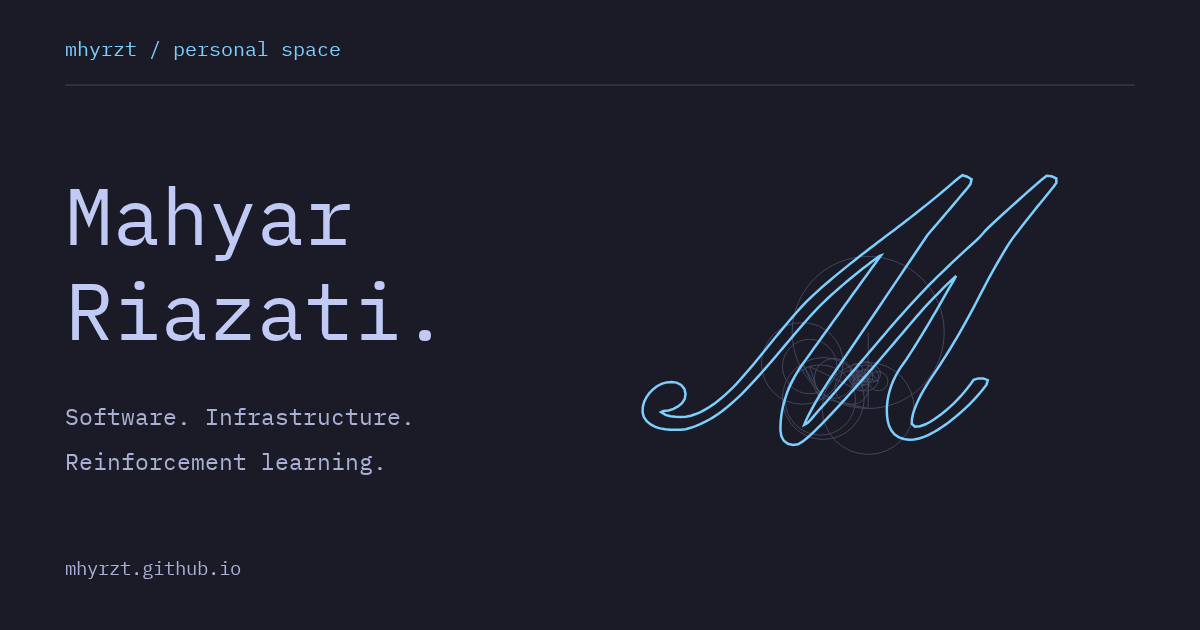
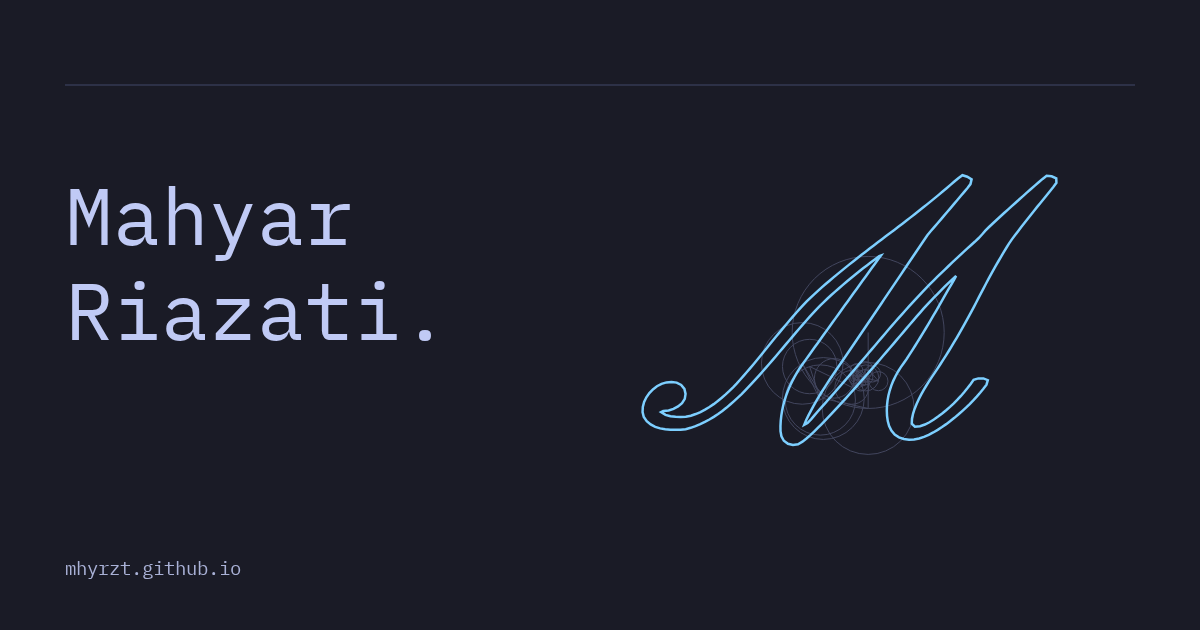
refactor: unify CV and simplify link preview

diff --git a/website/index.html b/website/index.html
@@ -4,8 +4,8 @@
     <meta charset="UTF-8">
     <meta name="viewport" content="width=device-width, initial-scale=1">
     <meta name="theme-color" content="#1a1b26">
-    <title>Mahyar Riazati · Software & research</title>
-    <meta name="description" content="Software engineering, infrastructure, and reinforcement-learning research. Selected work and notes from Mahyar Riazati.">
+    <title>Mahyar Riazati</title>
+    <meta name="description" content="Projects, research, and things I’m curious about.">
     <meta name="author" content="Mahyar Riazati">
     <link rel="canonical" href="https://mhyrzt.github.io/">
     <link rel="alternate" type="text/markdown" href="https://mhyrzt.github.io/index.md">
@@ -13,19 +13,19 @@
     <meta property="og:type" content="website">
     <meta property="og:site_name" content="Mahyar Riazati">
     <meta property="og:locale" content="en_US">
-    <meta property="og:title" content="Mahyar Riazati · Software & research">
-    <meta property="og:description" content="Software, infrastructure, and reinforcement learning. A personal workbench.">
+    <meta property="og:title" content="Mahyar Riazati">
+    <meta property="og:description" content="Projects, research, and things I’m curious about.">
     <meta property="og:url" content="https://mhyrzt.github.io/">
     <meta property="og:image" content="https://mhyrzt.github.io/social.png">
     <meta property="og:image:type" content="image/png">
     <meta property="og:image:width" content="1200">
     <meta property="og:image:height" content="630">
-    <meta property="og:image:alt" content="Mahyar Riazati. Software, infrastructure, reinforcement learning. A calligraphic M drawn with Fourier circles.">
+    <meta property="og:image:alt" content="Mahyar Riazati. A calligraphic M drawn with Fourier circles.">
     <meta name="twitter:card" content="summary_large_image">
-    <meta name="twitter:title" content="Mahyar Riazati · Software & research">
-    <meta name="twitter:description" content="Software, infrastructure, and reinforcement learning. A personal workbench.">
+    <meta name="twitter:title" content="Mahyar Riazati">
+    <meta name="twitter:description" content="Projects, research, and things I’m curious about.">
     <meta name="twitter:image" content="https://mhyrzt.github.io/social.png">
-    <meta name="twitter:image:alt" content="Mahyar Riazati. Software, infrastructure, reinforcement learning. A calligraphic M drawn with Fourier circles.">
+    <meta name="twitter:image:alt" content="Mahyar Riazati. A calligraphic M drawn with Fourier circles.">
     <link rel="icon" type="image/svg+xml" href="/favicon.svg">
     <link rel="stylesheet" href="/src/styles.css">
     <script>try{const t=localStorage.getItem('theme');if(t==='light'||t==='dark')document.documentElement.dataset.webtuiTheme=t}catch{}</script>

diff --git a/website/tests/site.spec.ts b/website/tests/site.spec.ts
@@ -78,8 +78,7 @@ test('works without JavaScript and offers keyboard navigation', async ({browser,
   await expect(staticPage.locator('.fourier button, .fourier select, .fourier summary')).toHaveCount(0);
   await staticPage.locator('.project summary').first().click();
   await expect(staticPage.getByText(/I develop the Rust CLI/)).toBeVisible();
-  await expect(staticPage.getByRole('link',{name:'↓ Research CV'})).toBeVisible();
-  await expect(staticPage.getByRole('link',{name:'↓ Full CV'})).toBeVisible();
+  await expect(staticPage.getByRole('link',{name:'↓ Download CV'})).toBeVisible();
   await staticPage.close(); await context.close();
   await page.goto('/');
   await page.keyboard.press('Tab');
@@ -117,18 +116,12 @@ test('SEO and static endpoints refer to the current domain', async ({request}) =
 });
 
 
-test('Tell me CV chooser links to each released profile',async ({page})=>{
+test('offers one direct CV download', async ({page}) => {
   await page.goto('/');
-  const chooser = page.getByLabel('Tell me…');
-  for(const [profile,filename,label] of [
-    ['engineering','mahyar-riazati-cv.pdf','Engineering CV'],
-    ['research','mahyar-riazati-research-cv.pdf','Research CV'],
-    ['full','mahyar-riazati-master-cv.pdf','Full CV'],
-  ]) {
-    await chooser.selectOption(profile!);
-    await expect(page.locator('#cv-download')).toHaveAttribute('href',`https://github.com/mhyrzt/mhyrzt.github.io/releases/latest/download/${filename}`);
-    await expect(page.locator('#cv-download')).toHaveText(`↓ ${label}`);
-  }
+  const download = page.getByRole('link', {name:'↓ Download CV'});
+  await expect(download).toHaveCount(1);
+  await expect(download).toHaveAttribute('href', 'https://github.com/mhyrzt/mhyrzt.github.io/releases/latest/download/mahyar-riazati-cv.pdf');
+  await expect(page.locator('#cv-profile')).toHaveCount(0);
 });
 
 test('scroll motion respects reduced motion and keeps content readable', async ({page}) => {

diff --git a/website/scripts/generate-social.ts b/website/scripts/generate-social.ts
@@ -17,7 +17,7 @@ for (const contour of glyph.contours) {
 const browser = await chromium.launch();
 try {
   const page = await browser.newPage({viewport:{width:1200,height:630},deviceScaleFactor:1});
-  await page.setContent(`<style>@font-face{font-family:Plex;src:url(data:font/woff2;base64,${font})}body{margin:0}</style><svg xmlns="http://www.w3.org/2000/svg" width="1200" height="630" style="font-family:Plex,monospace"><rect width="1200" height="630" fill="#1a1b26"/><path d="M65 85H1135" stroke="#414868"/><g fill="#7dcfff" font-size="20"><text x="65" y="56">mhyrzt / personal space</text></g><g fill="#c0caf5" font-size="80"><text x="65" y="245">Mahyar</text><text x="65" y="340">Riazati.</text></g><g fill="#a9b1d6" font-size="23"><text x="65" y="425">Software. Infrastructure.</text><text x="65" y="470">Reinforcement learning.</text></g><text x="65" y="575" fill="#a9b1d6" font-size="19">mhyrzt.github.io</text><g fill="none" stroke="#737aa2" stroke-width="1" opacity=".45">${construction}</g><path d="${outline}" fill="none" stroke="#7dcfff" stroke-width="2.5"/></svg>`);
+  await page.setContent(`<style>@font-face{font-family:Plex;src:url(data:font/woff2;base64,${font})}body{margin:0}</style><svg xmlns="http://www.w3.org/2000/svg" width="1200" height="630" style="font-family:Plex,monospace"><rect width="1200" height="630" fill="#1a1b26"/><path d="M65 85H1135" stroke="#414868"/><g fill="#c0caf5" font-size="80"><text x="65" y="245">Mahyar</text><text x="65" y="340">Riazati.</text></g><text x="65" y="575" fill="#a9b1d6" font-size="19">mhyrzt.github.io</text><g fill="none" stroke="#737aa2" stroke-width="1" opacity=".45">${construction}</g><path d="${outline}" fill="none" stroke="#7dcfff" stroke-width="2.5"/></svg>`);
   await page.evaluate(()=>document.fonts.ready);
   await page.screenshot({path:new URL('../public/social.png',import.meta.url).pathname});
 } finally { await browser.close(); }

diff --git a/website/src/components/page.ts b/website/src/components/page.ts
@@ -1,4 +1,4 @@
-import { identity, projects, publications, elsewhere, cvProfiles, cvDownload } from '../content.ts';
+import { identity, projects, publications, elsewhere } from '../content.ts';
 import glyph from '../fourier/glyph.json' with { type: 'json' };
 
 const esc = (s: string) => s.replaceAll('&','&amp;').replaceAll('<','&lt;').replaceAll('"','&quot;');
@@ -20,7 +20,7 @@ export function renderPage(): string {
         <div class="panel-title">${badge('index')}${badge('~/mhyrzt')}</div>
         <div class="index-body"><p class="index-name">Mahyar Riazati</p><p class="muted">Software engineer<br>RL research</p><div is-="separator" aria-hidden="true"></div>
         <nav aria-label="Section index"><ul marker-="tree"><li><a href="#main">Introduction</a></li><li><a href="#work">Selected work</a></li><li><a href="#research">Research</a></li><li><a href="#experience">Experience</a></li><li><a href="#about">Beyond the code</a></li><li><a href="#elsewhere">Elsewhere</a></li></ul></nav>
-        <div is-="separator" aria-hidden="true"></div><div class="cv-picker" hidden><label for="cv-profile">Tell me…</label><select id="cv-profile">${cvProfiles.map(p=>`<option value="${p.id}">${p.prompt}</option>`).join('')}</select></div><a id="cv-download" class="cv-index" href="${identity.cv}">↓ Engineering CV</a><noscript>${cvProfiles.slice(1).map(p=>`<a class="cv-index" href="${cvDownload(p.filename)}">↓ ${p.label}</a>`).join('')}</noscript><p class="index-location">Tehran, Iran</p></div>
+        <div is-="separator" aria-hidden="true"></div><a id="cv-download" class="cv-index" href="${identity.cv}">↓ Download CV</a><p class="index-location">Tehran, Iran</p></div>
       </aside>
       <main id="main">
         <div class="hero">

diff --git a/website/src/components/machine-readable.ts b/website/src/components/machine-readable.ts
@@ -1,4 +1,4 @@
-import { identity, projects, publications, elsewhere, cvProfiles, cvDownload } from '../content.ts';
+import { identity, projects, publications, elsewhere } from '../content.ts';
 
 export function machineReadableFiles(): Record<string, string> {
   const overview = `# ${identity.name}
@@ -26,7 +26,7 @@ ${publications.map(p => `- [${p.title}](${p.url}): ${p.authors}. ${p.venue}.`).j
 
 ## CV
 
-${cvProfiles.map(p => `- [${p.label}](${cvDownload(p.filename)})`).join('\n')}
+- [CV](${identity.cv})
 
 ## Elsewhere
 
@@ -36,15 +36,15 @@ ${elsewhere.map(p => `- [${p.name}](${p.url}): ${p.detail}`).join('\n')}
 
 > ${identity.description}
 
-This is a personal website, not a company website. The CVs contain the full formal record.
+This is a personal website, not a company website. The CV contains the full formal record.
 
 ## Overview
 
 - [Profile, projects, and publications](${identity.url}/index.md): Concise Markdown overview generated from the website's shared content.
 
-## CVs
+## CV
 
-${cvProfiles.map(p => `- [${p.label}](${cvDownload(p.filename)}): PDF from the latest tagged CV release.`).join('\n')}
+- [CV](${identity.cv}): PDF from the latest tagged CV release.
 
 ## Optional
 

diff --git a/website/src/content.ts b/website/src/content.ts
@@ -1,16 +1,9 @@
 export const identity = {
   name: 'Mahyar Riazati',
   url: 'https://mhyrzt.github.io',
-  description: 'Software engineering, infrastructure, and reinforcement-learning research. Selected work and notes from Mahyar Riazati.',
+  description: 'Projects, research, and things I’m curious about.',
   cv: 'https://github.com/mhyrzt/mhyrzt.github.io/releases/latest/download/mahyar-riazati-cv.pdf',
 };
-
-export const cvProfiles = [
-  { id: 'engineering', prompt: 'what you build', label: 'Engineering CV', filename: 'mahyar-riazati-cv.pdf' },
-  { id: 'research', prompt: 'what you research', label: 'Research CV', filename: 'mahyar-riazati-research-cv.pdf' },
-  { id: 'full', prompt: 'the whole story', label: 'Full CV', filename: 'mahyar-riazati-master-cv.pdf' },
-] as const;
-export const cvDownload = (filename: string) => `https://github.com/mhyrzt/mhyrzt.github.io/releases/latest/download/${filename}`;
 
 export const projects = [
   {

diff --git a/website/src/main.ts b/website/src/main.ts
@@ -1,21 +1,8 @@
 import { mountFourier } from './fourier/renderer';
-import { cvProfiles, cvDownload } from './content';
 import { mountScrollMotion } from './scroll';
 
 const disposeScroll = mountScrollMotion();
 if (import.meta.hot) import.meta.hot.dispose(disposeScroll);
-
-const cvSelect = document.querySelector<HTMLSelectElement>('#cv-profile');
-const cvLink = document.querySelector<HTMLAnchorElement>('#cv-download');
-if (cvSelect && cvLink) {
-  cvSelect.closest<HTMLElement>('.cv-picker')!.hidden = false;
-  cvSelect.addEventListener('change', () => {
-    const profile = cvProfiles.find(p => p.id === cvSelect.value);
-    if (!profile) return;
-    cvLink.href = cvDownload(profile.filename);
-    cvLink.textContent = `↓ ${profile.label}`;
-  });
-}
 
 const theme = document.querySelector<HTMLButtonElement>('#theme');
 function updateThemeButton() {

diff --git a/website/src/styles.css b/website/src/styles.css
@@ -113,8 +113,6 @@
   .index-panel li { white-space: nowrap; }
   .index-location { margin-top: 2lh; font-size: 12px; }
   .cv-index { display: block; white-space: nowrap; }
-  .cv-picker { display: flex; flex-direction: column; gap: .5lh; margin-bottom: .5lh; width: 100%; }
-  .cv-picker select { max-width: 100%; width: 100%; padding: .25lh .5ch; }
   .sr-only { position: absolute; width: 1px; height: 1px; padding: 0; margin: -1px; overflow: hidden; clip-path: inset(50%); white-space: nowrap; border: 0; }
   [is-='separator'] { display: block; width: 100%; margin: .5lh 0; }
   main { min-width: 0; }

diff --git a/CV/sections/projects.tex b/CV/sections/projects.tex
@@ -1,94 +1,16 @@
-\ifmastercv
-  \Needspace{12\baselineskip}
-  \section{Projects}
-\else
-  \section{Selected Projects}
-\fi
+\section{Selected Projects}
 \begin{projectentry}{OGym --- Rust reinforcement-learning environments}{https://github.com/mhyrzt/ogym}
-Developed typed environment, action, and observation abstractions with batch execution across native Rust, Rapier, and MuJoCo backends.
-\ifmastercv\else Maintained reproducible benchmarks against Gymnasium environments.\fi
-\ifmastercv
-\begin{itemize}
-  \item Implemented classic-control and toy-text environments behind a shared interface, with optional physics backends and native dependencies.
-  \item Maintained a benchmark suite against equivalent Gymnasium environments, with published methodology and raw measurements.
-\end{itemize}
-\fi
-
+Developed typed environment, action, and observation abstractions with batch execution across native Rust, Rapier, and MuJoCo backends. Maintained reproducible benchmarks against Gymnasium environments.
 \end{projectentry}
 
 \begin{projectentry}{XRAT --- proxy management and runtime tooling}{https://github.com/mhyrzt/xrat}
-Developed a Rust CLI, TUI, and web interface for proxy configuration, concurrent latency testing, daemon-supervised connections, and health-based rotation.
-\ifmastercv\else Exposed parsing, configuration generation, and probing through a reusable Rust SDK.\fi
-\ifmastercv
-\begin{itemize}
-  \item Built configuration parsing and runtime generation for Xray-core, V2Ray-core, and sing-box, with persistent configuration and measurement history.
-  \item Developed reusable Rust SDK components for parsing, configuration generation, and probing; maintained packaging and release workflows across operating systems.
-  \item Implemented runtime controls for managed proxy processes and optional TUN routing; Windows support remains experimental.
-\end{itemize}
-\fi
-
+Developed a Rust CLI, TUI, and web interface for proxy configuration, concurrent latency testing, daemon-supervised connections, and health-based rotation. Exposed parsing, configuration generation, and probing through a reusable Rust SDK.
 \end{projectentry}
 
-\ifresearchcv\else
 \begin{projectentry}{Mahfel --- real-time meetings and collaboration}{https://github.com/mhyrzt/mahfel}
 Developed Rust services and a Next.js interface for WebRTC meetings and collaboration, integrating media, signaling, background jobs, and shared storage.
-\ifmastercv
-\begin{itemize}
-  \item Worked across API, media, and worker components using mediasoup, PostgreSQL, Redis, RabbitMQ, and S3-compatible storage.
-  \item Implemented session interactions, recording workflows, SSO integration, and recovery behavior; prepared contributor-facing documentation for the self-hosted project.
-\end{itemize}
-\fi
 \end{projectentry}
-\fi
 
-\ifmastercv
-\Needspace{5\baselineskip}
-\begin{samepage}
-\textbf{Ara --- AI-assisted educational authoring}\hfill\textit{RastAI project}\par\nopagebreak
-Implemented agent-assisted authoring and review workflows integrated with the LMS through MCP.
-\begin{itemize}
-  \item Developed learning-analytics and grading-proposal workflows with persistent reports, scoped access, and instructor review before applying changes.
-  \item Worked on authenticated uploads, artifact previews, background agent execution, and integration checks.
-\end{itemize}
-\end{samepage}
-\fi
-\ifresearchcv
-  \def\showexrl{1}
-\else
-  \ifmastercv\def\showexrl{1}\else\def\showexrl{0}\fi
-\fi
-\ifnum\showexrl=1
-\begin{projectentry}{Ex-RL Virtual Lab}{https://github.com/epsilonlog/Ex-RL-virtual-lab}
-Co-developed reusable reinforcement-learning experiments and a user-facing experiment pipeline with the Sharif research team; supported shared code organization and experimental analysis.
-\end{projectentry}
-\fi
-\ifmastercv
 \begin{projectentry}{Android Facial Landmark Detection}{https://github.com/mhyrzt/Dlib-Android-Face-Landmark}
 Built an Android application for 68-point facial landmark detection, integrating dlib's C++ implementation with Java through the Android NDK, CMake, and OpenCV.
-
 \end{projectentry}
-
-\begin{projectentry}{Self-play Reinforcement-Learning Chess}{https://github.com/mhyrzt/Simple-MADRL-Chess}
-Implemented a Pygame chess environment and PPO self-play experiments with separate-agent and shared-policy configurations; the environment omits castling and en passant.
-
-\end{projectentry}
-
-\begin{projectentry}{Koch Snowflake}{https://github.com/mhyrzt/KochSnowFlake}
-Developed a React/TypeScript fractal visualization with interactive iteration and line-length controls.
-
-\end{projectentry}
-
-\begin{projectentry}{Elementary Cellular Automaton}{https://github.com/mhyrzt/elementary-cellular-automaton}
-Built a React visualization for exploring elementary cellular automata with configurable rules and grid sizes.
-
-\end{projectentry}
-
-\begin{projectentry}{Unity MountainCar 2D}{https://github.com/mhyrzt/UnityMountainCar2D}
-Developed a configurable MountainCar environment with Unity ML-Agents, including adjustable goal position, gravity, and vehicle properties.
-
-\end{projectentry}
-
-\begin{projectentry}{ALOHASIM}{https://github.com/mhyrzt/ALOHASIM}
-Simulated the ALOHA protocol and visualized node interactions with Pygame for a telecommunications course project.
-\end{projectentry}
-\fi

diff --git a/CV/scripts/check_cv.py b/CV/scripts/check_cv.py
@@ -17,20 +17,10 @@ class Profile:
     pages: int | None = None
 
 
-PROFILES = (
-    Profile("mahyar-riazati-cv", (
-        "Professional Experience", "Selected Projects", "Research Experience",
-        "Publications", "Education", "Technical Skills",
-    ), 2),
-    Profile("mahyar-riazati-research-cv", (
-        "Research Experience", "Publications", "Education", "Selected Projects",
-        "Professional Experience", "Technical Skills",
-    ), 2),
-    Profile("mahyar-riazati-master-cv", (
-        "Professional Experience", "Research Experience", "Education",
-        "Publications", "Technical Skills", "Projects",
-    )),
-)
+CV = Profile("mahyar-riazati-cv", (
+    "Professional Experience", "Selected Projects", "Research Experience",
+    "Publications", "Education", "Technical Skills",
+), 2)
 ROOT = Path(__file__).resolve().parents[1]
 BUILD = ROOT / "build"
 
@@ -60,7 +50,7 @@ def check(profile: Profile) -> set[str]:
         positions = [text.find(heading) for heading in profile.headings]
         require(all(index >= 0 for index in positions) and positions == sorted(positions),
                 f"{pdf.name}: wrong section order in {mode} extraction")
-        for expected in ("SAFER", "1,000", "3,000", "1,500", "May 2026", "XRAT", "OGym"):
+        for expected in ("SAFER", "1,000", "3,000", "1,500", "May 2026", "XRAT", "OGym", "Android Facial Landmark Detection", "Rastploy"):
             require(expected in text, f"{pdf.name}: missing extracted text: {expected}")
         require("mhyrzt.me" not in text and "Selected Training" not in text,
                 f"{pdf.name}: obsolete content")
@@ -92,9 +82,7 @@ def main() -> None:
     parser = argparse.ArgumentParser(description=__doc__)
     parser.add_argument("--links", action="store_true", help="Verify GitHub repos via gh")
     args = parser.parse_args()
-    links: set[str] = set()
-    for profile in PROFILES:
-        links.update(check(profile))
+    links = check(CV)
     if args.links:
         repos = sorted({link.removeprefix("https://github.com/") for link in links
                         if re.fullmatch(r"https://github\.com/[^/]+/[^/]+", link)})

diff --git a/CV/sections/experience.tex b/CV/sections/experience.tex
@@ -6,12 +6,6 @@
   \item Develop assessment, authoring, authentication, and real-time collaboration workflows across Kotlin/Spring Boot services and React/Next.js applications.
   \item Implement agent workflows for Ara and the LMS using the Model Context Protocol (MCP): scoped tool access, learning analytics, and human review of proposed authoring and grading changes.
   \item Develop tooling for teammates and coding agents, including Rastploy, a Go deployment CLI and daemon with scoped access, logs, and rollback; build utilities for runner maintenance, service checks, and configuration reconciliation.
-  \ifmastercv
-    \item Maintain containerized services and GitLab CI/CD; implement release validation, application metrics, and error reporting, and investigate deployment and runtime failures.
-    \item Implemented scoped API-key authorization, resource-upload validation, immutable analytics snapshots, and review checks for agent-proposed changes.
-    \item Worked on SSO/session handling, AI-service integration, frontend regression tests, and backend integration-test fixtures across the platform.
-    \item Translate educational and research requirements into product features and evaluate AI tools for integration into learning and authoring workflows.
-  \fi
 \end{itemize}
 
 \entry{Quera}{Tehran, Iran}{Bootcamp Mentor \& Instructor}{Jul 2022 -- Nov 2022}

diff --git a/CV/sections/education.tex b/CV/sections/education.tex
@@ -4,9 +4,6 @@ GPA: 3.5/4.00\enspace|\enspace Supervisor: Dr. Majid Nili Ahmadabadi
 \begin{itemize}
   \item \textbf{Thesis research: SAFER.} Investigated how to use uncertain reward-shaping signals in reinforcement learning while preserving the original task objective.
   \item Developed a multi-head framework with paired-policy evaluation and evidence-based guidance selection; implemented Q-learning, SARSA, A2C, and discrete SAC in Rust with Python analysis tools.
-  \ifmastercv
-    \item Built configurable experiments comparing environment-only learning, fixed reward combinations, and adaptive guidance, including helpful and adversarial reward signals.
-  \fi
 \end{itemize}
 \entry{Islamic Azad University, South Tehran Branch}{Tehran, Iran}{B.Sc., Electrical and Telecommunication Engineering}{2017 -- 2022}
 GPA: 3.10/4.00\enspace|\enspace Supervisor: Dr. Sedigheh Ghofrani
